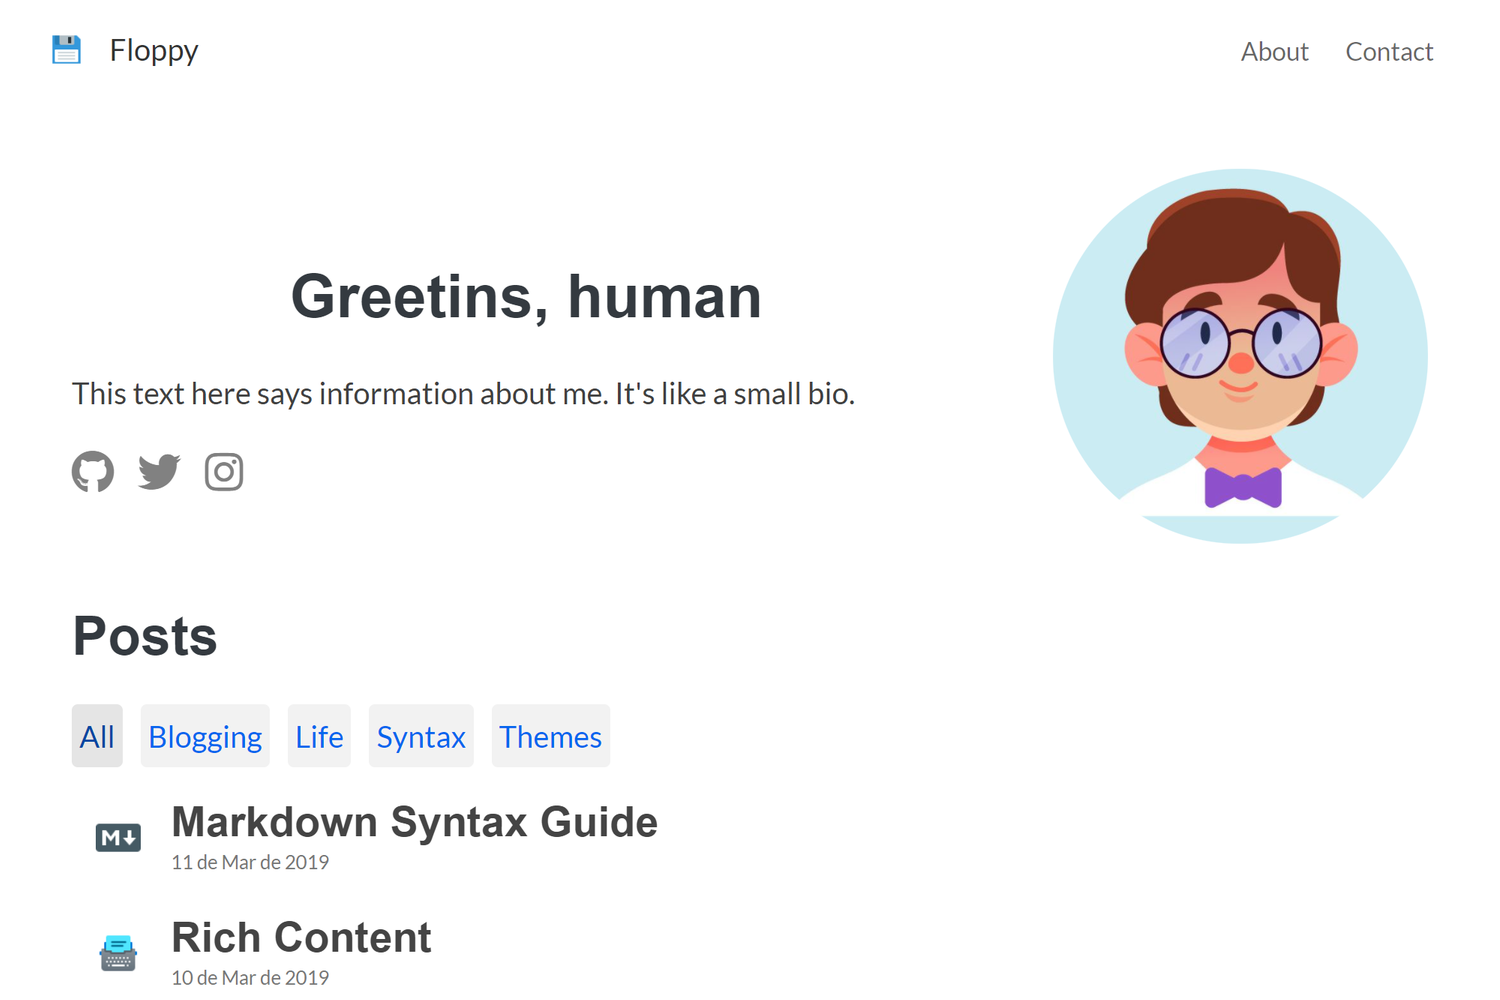
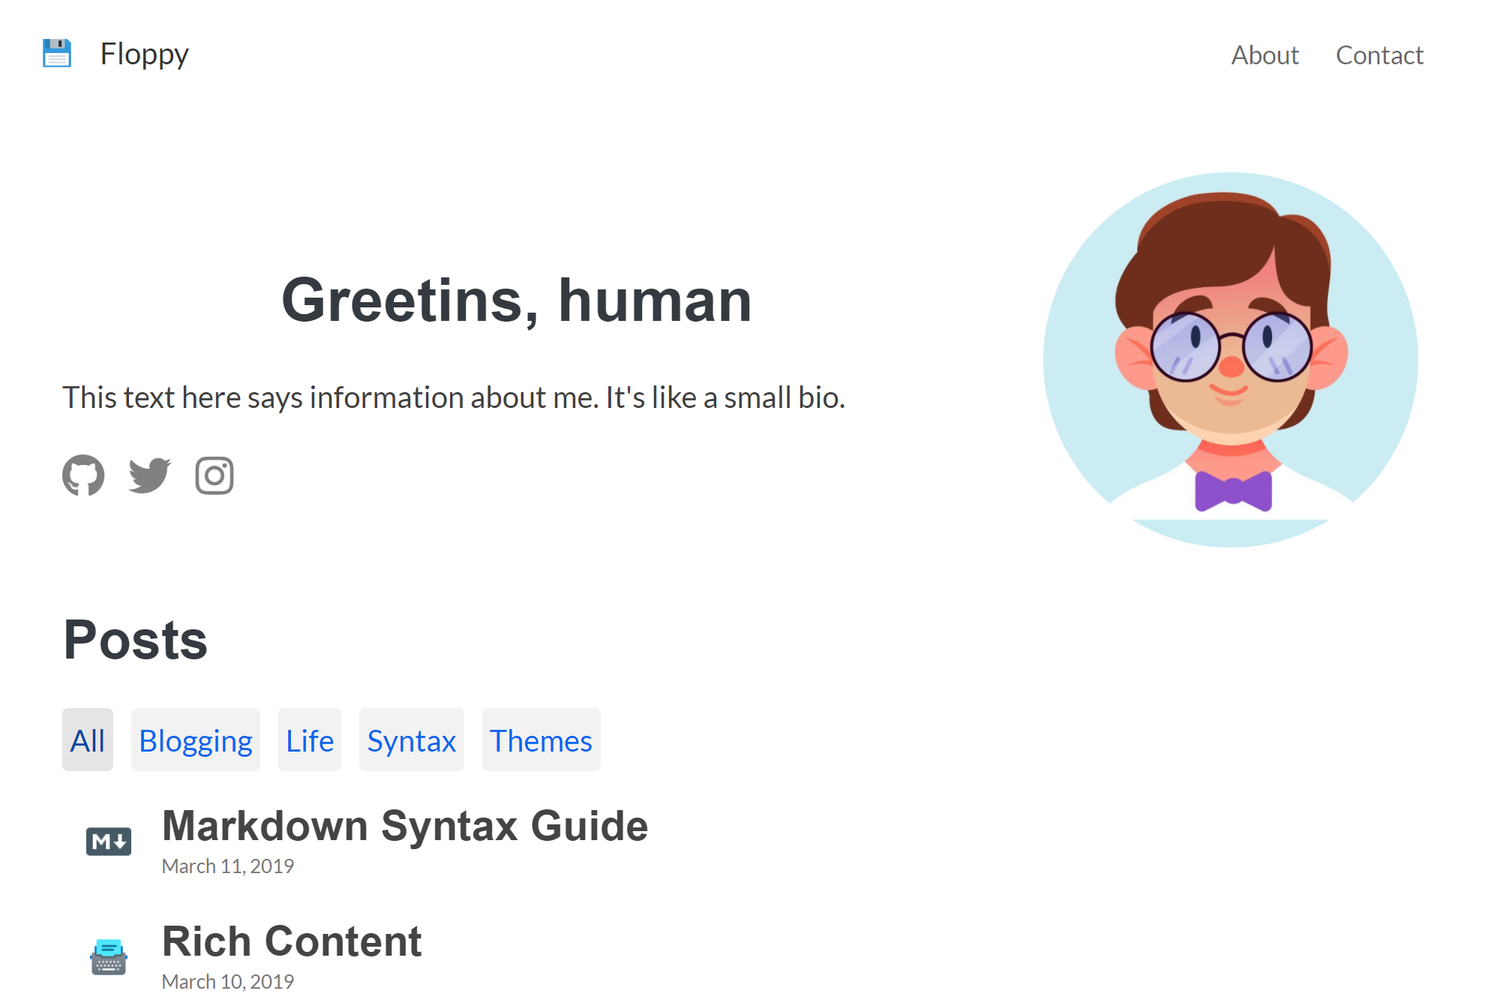
Dates in English

diff --git a/layouts/index.html b/layouts/index.html
@@ -39,8 +39,7 @@
 										{{.Title}}{{ if .Draft }}<sup class="draft-label">DRAFT</sup>{{ end }}
 									</h3>
 									<div class="date">
-										<span class="day">{{ dateFormat "02" .Date }} de </span>
-										<span class="rest">{{ if $.Site.Data.month }}{{ index $.Site.Data.month (printf "%d" .Date.Month) }} de {{ .Date.Year }}{{ else }}{{ dateFormat "Jan 2006" .Date }}{{ end }}</span>
+										<span>{{ .PublishDate.Format "January 2, 2006" }}</span>
 									</div>
 								</div>
 						</a>

diff --git a/layouts/_default/single.html b/layouts/_default/single.html
@@ -21,8 +21,7 @@
 				<h1 class="title">{{ .Title }}</h1>
 				{{ if ne .Date.Year 1 }}
 					<div class="date">
-						<span class="day">{{ dateFormat "02" .Date }} de </span>
-						<span class="rest">{{ if $.Site.Data.month }}{{ index $.Site.Data.month (printf "%d" .Date.Month) }} de {{ .Date.Year }}{{ else }}{{ dateFormat "Jan 2006" .Date }}{{ end }}</span>
+						<span>{{ .PublishDate.Format "January 2, 2006" }}</span>
 					</div>
 				{{ end }}
 			</div>
